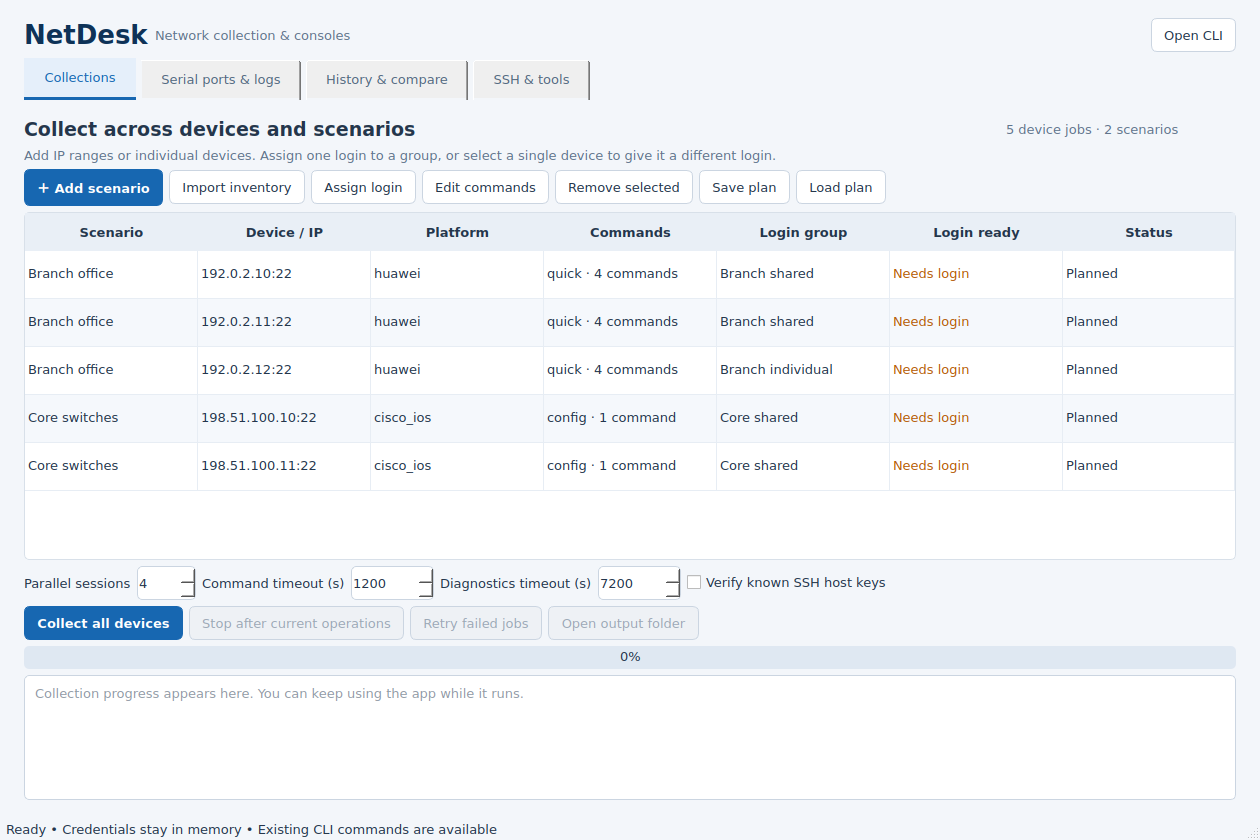
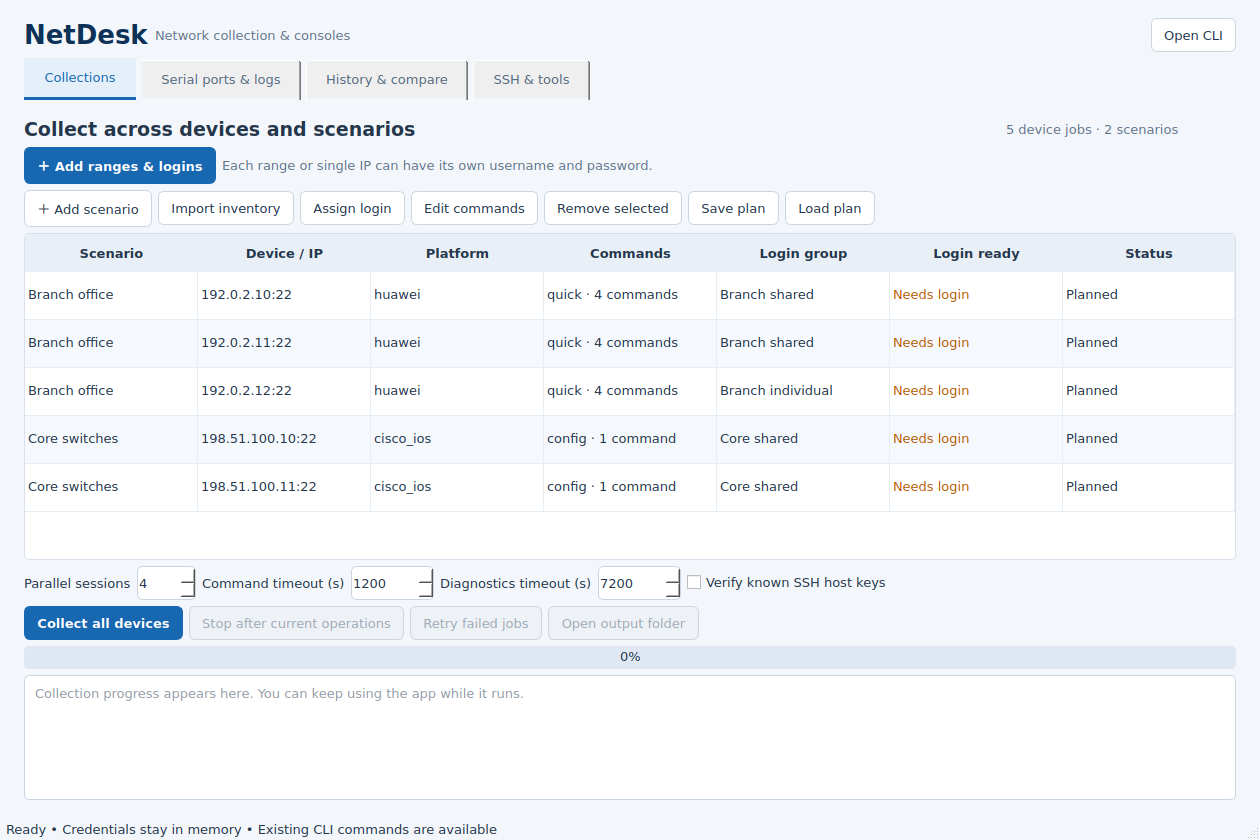
Add direct multi-range collection editor with independent logins

diff --git a/netdesk_gui.py b/netdesk_gui.py
@@ -210,6 +210,130 @@ class ScenarioDialog(QDialog):
             message(self, error)
 
 
+class RangesDialog(QDialog):
+    """One visible row per address set, with independent runtime credentials."""
+    def __init__(self, existing_jobs=(), existing_groups=(), parent=None):
+        super().__init__(parent)
+        self.setWindowTitle('Add IP ranges with separate logins')
+        self.resize(1100, 470)
+        self.existing_jobs = list(existing_jobs)
+        self.existing_groups = set(existing_groups)
+        self.jobs, self.credentials = [], {}
+        layout = QVBoxLayout(self)
+        layout.addWidget(hint('Each row is a separate range or single IP with its own login. Add as many rows as you need, then collect them together.'))
+        self.rows = QTableWidget(0, 6)
+        self.rows.setHorizontalHeaderLabels(['IP / range / subnet', 'Username', 'Password', 'Platform', 'Preset', 'Port'])
+        self.rows.setSelectionBehavior(QAbstractItemView.SelectionBehavior.SelectRows)
+        self.rows.horizontalHeader().setSectionResizeMode(QHeaderView.ResizeMode.Stretch)
+        self.rows.horizontalHeader().setSectionResizeMode(5, QHeaderView.ResizeMode.Fixed)
+        self.rows.setColumnWidth(5, 85)
+        self.rows.verticalHeader().setDefaultSectionSize(44)
+        layout.addWidget(self.rows, 1)
+        controls = QHBoxLayout()
+        controls.addWidget(button('＋ Add another row', self.add_row))
+        controls.addWidget(button('Remove selected rows', self.remove_rows))
+        self.shared = QCheckBox('Use the first row’s username and password for every row')
+        self.shared.toggled.connect(self.update_shared)
+        controls.addWidget(self.shared)
+        controls.addStretch()
+        layout.addLayout(controls)
+        layout.addWidget(hint('Examples: 192.168.1.1-10, 192.168.10.1-15, or one IP such as 10.0.0.5. Passwords are masked and never saved in plans. Use Add scenario for custom command lists.'))
+        self.error = QLabel('')
+        self.error.setWordWrap(True)
+        self.error.setStyleSheet('color: #a12b25;')
+        layout.addWidget(self.error)
+        buttons = QDialogButtonBox(QDialogButtonBox.StandardButton.Ok | QDialogButtonBox.StandardButton.Cancel)
+        buttons.button(QDialogButtonBox.StandardButton.Ok).setText('Add all ranges to collection')
+        buttons.accepted.connect(self.submit)
+        buttons.rejected.connect(self.reject)
+        layout.addWidget(buttons)
+        self.add_row()
+        self.add_row()
+
+    def add_row(self):
+        row = self.rows.rowCount()
+        self.rows.insertRow(row)
+        targets, username, password = QLineEdit(), QLineEdit(), QLineEdit()
+        targets.setPlaceholderText('IP or range, e.g. 192.168.1.1-10')
+        password.setEchoMode(QLineEdit.EchoMode.Password)
+        password.setPlaceholderText('Password for this row')
+        platform = combo(list(n.PRESETS))
+        presets = combo(n.available_presets(['huawei']))
+        def update_presets():
+            previous = presets.currentText()
+            presets.clear()
+            presets.addItems(n.available_presets([platform.currentText()]))
+            presets.setCurrentText(previous if presets.findText(previous) >= 0 else 'quick')
+        def show_commands():
+            if presets.currentText():
+                presets.setToolTip('\n'.join(n.get_commands(platform.currentText(), presets.currentText())))
+        platform.currentTextChanged.connect(update_presets)
+        presets.currentTextChanged.connect(show_commands)
+        for column, widget in enumerate((targets, username, password, platform, presets, spin(1, 65535, 22))):
+            self.rows.setCellWidget(row, column, widget)
+        show_commands()
+        self.update_shared()
+
+    def update_shared(self):
+        for row in range(self.rows.rowCount()):
+            for column in (1, 2):
+                self.rows.cellWidget(row, column).setEnabled(row == 0 or not self.shared.isChecked())
+
+    def remove_rows(self):
+        for row in sorted({index.row() for index in self.rows.selectionModel().selectedRows()}, reverse=True):
+            self.rows.removeRow(row)
+        if not self.rows.rowCount():
+            self.add_row()
+        self.update_shared()
+
+    def build(self):
+        jobs, vault = [], {}
+        used_names = {j['scenario'] for j in self.existing_jobs}
+        used_groups = self.existing_groups | {j['credential_group'] for j in self.existing_jobs}
+        count = 1
+        first_group = None
+        for row in range(self.rows.rowCount()):
+            targets = self.rows.cellWidget(row, 0).text().strip()
+            own_user = self.rows.cellWidget(row, 1).text().strip()
+            own_password = self.rows.cellWidget(row, 2).text()
+            if not targets:
+                if own_user or own_password:
+                    raise ValueError(f'Row {row + 1}: enter the IP or range for this login.')
+                continue
+            credential_row = 0 if self.shared.isChecked() else row
+            username = self.rows.cellWidget(credential_row, 1).text().strip()
+            password = self.rows.cellWidget(credential_row, 2).text()
+            if not username or not password:
+                raise ValueError(f'Row {row + 1}: enter both a username and password' + (' in the first row.' if self.shared.isChecked() else '.'))
+            while f'Range {count}' in used_names or f'Range {count} login' in used_groups:
+                count += 1
+            name = f'Range {count}'
+            group = first_group if self.shared.isChecked() and first_group else name + ' login'
+            try:
+                new_jobs = batch.make_jobs(name, targets, self.rows.cellWidget(row, 3).currentText(),
+                                          self.rows.cellWidget(row, 5).value(), self.rows.cellWidget(row, 4).currentText(),
+                                          credential_group=group)
+            except ValueError as error:
+                raise ValueError(f'Row {row + 1}: {error}') from error
+            jobs.extend(new_jobs)
+            vault[group] = (username, password)
+            first_group = first_group or group
+            used_names.add(name)
+            used_groups.add(group)
+            count += 1
+        if not jobs:
+            raise ValueError('Enter at least one IP or range and its login.')
+        batch.validate_jobs(self.existing_jobs + jobs)
+        return jobs, vault
+
+    def submit(self):
+        try:
+            self.jobs, self.credentials = self.build()
+            self.accept()
+        except (ValueError, KeyError, TypeError) as error:
+            self.error.setText(str(error))
+
+
 class LoginDialog(QDialog):
     def __init__(self, vault, default, parent=None):
         super().__init__(parent)
@@ -291,10 +415,14 @@ class MainWindow(QMainWindow):
         self.count.setMinimumWidth(230)
         row.addWidget(self.count)
         layout.addLayout(row)
-        layout.addWidget(hint('Add IP ranges or individual devices. Assign one login to a group, or select a single device to give it a different login.'))
+        quick = QHBoxLayout()
+        self.ranges_btn = button('＋ Add ranges && logins', self.add_ranges, True)
+        quick.addWidget(self.ranges_btn)
+        quick.addWidget(hint('Each range or single IP can have its own username and password.'), 1)
+        layout.addLayout(quick)
         toolbar = QHBoxLayout()
-        self.edit_buttons = []
-        for text, callback, primary in [('＋ Add scenario', self.add_scenario, True), ('Import inventory', self.import_inventory, False),
+        self.edit_buttons = [self.ranges_btn]
+        for text, callback, primary in [('＋ Add scenario', self.add_scenario, False), ('Import inventory', self.import_inventory, False),
                                         ('Assign login', self.assign_login, False), ('Edit commands', self.edit_commands, False),
                                         ('Remove selected', self.remove_selected, False), ('Save plan', self.save_plan, False), ('Load plan', self.load_plan, False)]:
             control = button(text, callback, primary)
@@ -312,7 +440,7 @@ class MainWindow(QMainWindow):
         self.table.horizontalHeader().setSectionResizeMode(QHeaderView.ResizeMode.Stretch)
         self.table.cellDoubleClicked.connect(lambda _r, _c: self.assign_login() if not self.busy else None)
         layout.addWidget(self.table, 1)
-        self.empty = hint('Start with “Add scenario”. Example: Branch A → 192.168.1.10-20 → one shared login. Add Branch B with another login, then collect both together.')
+        self.empty = hint('Start with “Add ranges & logins”. Enter each IP range and its own username/password, then collect all rows together.')
         layout.addWidget(self.empty)
         settings = QHBoxLayout()
         self.workers = spin(1, 16, 4)
@@ -384,6 +512,15 @@ class MainWindow(QMainWindow):
         self.jobs.extend(dialog.jobs)
         self.dirty = True
         self.refresh_table()
+
+    def add_ranges(self):
+        dialog = RangesDialog(self.jobs, self.vault, self)
+        if dialog.exec():
+            self.jobs.extend(dialog.jobs)
+            self.vault.update(dialog.credentials)
+            self.dirty = True
+            self.refresh_table()
+            self.statusBar().showMessage(f'Added {len(dialog.jobs)} device jobs with {len(dialog.credentials)} login groups. Review and click Collect all devices.')
 
     def add_scenario(self):
         dialog = ScenarioDialog(self.vault, parent=self)

diff --git a/tests/test_gui.py b/tests/test_gui.py
@@ -13,7 +13,7 @@ from PySide6.QtTest import QTest
 
 import netdesk as n
 import netdesk_batch as b
-from netdesk_gui import MainWindow, ScenarioDialog, STYLE
+from netdesk_gui import MainWindow, ScenarioDialog, RangesDialog, STYLE
 
 
 class GuiTests(unittest.TestCase):
@@ -143,6 +143,74 @@ class GuiTests(unittest.TestCase):
         with self.assertRaises(ValueError):
             self.window.accept_scenario(dialog)
         self.assertEqual(self.window.vault['Office'], ('old', 'old-secret'))
+
+    def range_dialog(self):
+        dialog = RangesDialog(parent=self.window)
+        for row, (targets, user, password) in enumerate([
+                ('192.0.2.1-10', 'range-a-user', 'range-a-secret'),
+                ('198.51.100.1-15', 'range-b-user', 'range-b-secret')]):
+            for column, text in enumerate((targets, user, password)):
+                dialog.rows.cellWidget(row, column).setText(text)
+        return dialog
+
+    def test_range_rows_send_correct_login_to_all_25_devices(self):
+        dialog = self.range_dialog()
+        dialog.submit()
+        self.assertEqual(dialog.result(), QDialog.DialogCode.Accepted)
+        self.assertEqual(len(dialog.jobs), 25)
+        calls = {}
+        def connect(**kwargs):
+            calls[kwargs['host']] = (kwargs['username'], kwargs['password'])
+            connection = Mock()
+            connection.find_prompt.return_value = '<switch>'
+            connection.send_command.return_value = 'mock output'
+            return connection
+        with patch.object(n, 'ConnectHandler', side_effect=connect):
+            path, result = b.run_batch(dialog.jobs, dialog.credentials, runs_dir=self.root/'runs')
+        self.assertTrue(all(r['status'] == 'ok' for r in result['results']))
+        for number in range(1, 11):
+            self.assertEqual(calls[f'192.0.2.{number}'], ('range-a-user', 'range-a-secret'))
+        for number in range(1, 16):
+            self.assertEqual(calls[f'198.51.100.{number}'], ('range-b-user', 'range-b-secret'))
+        plan = self.root/'ranges.json'
+        b.save_plan(plan, dialog.jobs)
+        for secret in ('range-a-user', 'range-a-secret', 'range-b-user', 'range-b-secret'):
+            self.assertNotIn(secret, plan.read_text())
+            self.assertNotIn(secret, (path/'summary.json').read_text())
+
+    def test_range_shared_login_and_single_ip(self):
+        dialog = self.range_dialog()
+        dialog.rows.cellWidget(1, 0).setText('198.51.100.5')
+        dialog.shared.setChecked(True)
+        jobs, vault = dialog.build()
+        self.assertEqual(len(jobs), 11)
+        self.assertEqual(len(vault), 1)
+        self.assertEqual(len({j['credential_group'] for j in jobs}), 1)
+        self.assertEqual(next(iter(vault.values())), ('range-a-user', 'range-a-secret'))
+        self.assertFalse(dialog.rows.cellWidget(1, 2).isEnabled())
+        dialog.shared.setChecked(False)
+        self.assertEqual(len(dialog.build()[1]), 2)
+        dialog.reject()
+
+    def test_range_groups_never_overwrite_existing_credentials(self):
+        dialog = self.range_dialog()
+        dialog.existing_jobs = b.make_jobs('Range 1', '203.0.113.1', credential_group='Range 1 login')
+        dialog.existing_groups = {'Range 2 login'}
+        jobs, vault = dialog.build()
+        self.assertNotIn('Range 1 login', vault)
+        self.assertNotIn('Range 2 login', vault)
+        self.assertEqual(jobs[0]['scenario'], 'Range 3')
+        dialog.reject()
+
+    def test_range_invalid_row_keeps_dialog_open_without_partial_result(self):
+        dialog = self.range_dialog()
+        dialog.rows.cellWidget(1, 2).clear()
+        dialog.submit()
+        self.assertEqual(dialog.result(), QDialog.DialogCode.Rejected)
+        self.assertIn('Row 2', dialog.error.text())
+        self.assertEqual(dialog.jobs, [])
+        self.assertEqual(dialog.credentials, {})
+        dialog.reject()
 
     def test_original_serial_wizard_launch_remains_available(self):
         with patch('netdesk_gui.shutil.which', return_value='/usr/bin/gnome-terminal'), patch('netdesk_gui.subprocess.Popen') as launch:

diff --git a/tools/render_screenshots.py b/tools/render_screenshots.py
@@ -10,7 +10,7 @@ sys.path.insert(0, str(Path(__file__).resolve().parents[1]))
 from PySide6.QtWidgets import QApplication
 import netdesk as n
 import netdesk_batch as b
-from netdesk_gui import MainWindow, ScenarioDialog, STYLE
+from netdesk_gui import MainWindow, ScenarioDialog, RangesDialog, STYLE
 
 root = n.ROOT
 output = root / 'docs' / 'screenshots'
@@ -26,6 +26,14 @@ with tempfile.TemporaryDirectory() as temporary, patch.object(n, 'RUNS', Path(te
     window.show()
     app.processEvents()
     window.grab().save(str(output / 'collections.png'))
+    ranges = RangesDialog(parent=window)
+    for row, (targets, user) in enumerate([('192.0.2.1-10', 'branch-a'), ('198.51.100.1-15', 'branch-b')]):
+        ranges.rows.cellWidget(row, 0).setText(targets)
+        ranges.rows.cellWidget(row, 1).setText(user)
+    ranges.show()
+    app.processEvents()
+    ranges.grab().save(str(output / 'ranges.png'))
+    ranges.reject()
     dialog = ScenarioDialog({}, parent=window)
     dialog.name.setText('Core BGP troubleshooting')
     dialog.targets.setPlainText('198.51.100.10-11')

diff --git a/docs/USAGE.md b/docs/USAGE.md
@@ -1,5 +1,13 @@
 # Usage guide
 
+## Quickly add ranges with separate logins
+
+**Collections → Add ranges & logins** opens a table with two initial rows. Enter an IP, inclusive range, subnet or list in each row, then that row's username and password. Every row can choose its own platform, preset and port. Add more rows as needed. Click the row number at the left to select rows for removal.
+
+By default credentials are independent. The optional shared-login checkbox makes all rows use the first row's credentials; turning it off restores the individual fields. Incomplete or invalid rows are reported before anything is added or connected. Entirely blank rows are ignored.
+
+**Add all ranges to collection** expands the addresses and creates distinct groups without overwriting existing credentials. Review the expanded device list and click **Collect all devices** to run. For custom commands, use the existing scenario editor or select added devices and choose **Edit commands**.
+
 ## Plans, credentials and selection
 
 A plan contains one or more scenarios. Each expanded device becomes a job with its own command list and login-group name. Multiple devices may share one group, or each may have its own. Updating a named group changes the login for all devices using it. When selecting only part of a shared group, the GUI suggests a new group to keep the other devices unchanged.

diff --git a/README.md b/README.md
@@ -48,7 +48,23 @@ netdesk --help    # All CLI commands
 
 Existing user-installed serial helpers are preferred. Portable copies are bundled as a fallback, so a fresh installation can use the serial wizard too.
 
-## First collection
+## Ranges with different usernames and passwords
+
+Open **Collections → Add ranges & logins**. Enter one address set per row:
+
+| IP / range | Username | Password |
+| --- | --- | --- |
+| `192.0.2.1-10` | branch-a | Password for the first range |
+| `198.51.100.1-15` | branch-b | Password for the second range |
+| `203.0.113.5` | individual-device | Password for that device |
+
+Each row has its own platform, preset and SSH port. **Add another row** adds more ranges or single IPs. Leave the shared-login checkbox off for different credentials; turn it on to use the first row's username and password for every row.
+
+Click **Add all ranges to collection**, then **Collect all devices**. NetDesk automatically creates independent login groups, keeping existing groups unchanged. Saved plans still omit usernames and passwords.
+
+![Multiple ranges with independent logins](docs/screenshots/ranges.png)
+
+## Advanced scenario setup
 
 1. Open **Collections → Add scenario**.
 2. Name the scenario and enter targets, such as `192.0.2.10-12` or `192.0.2.10,192.0.2.20`.

diff --git a/CHANGELOG.md b/CHANGELOG.md
@@ -1,5 +1,11 @@
 # Changelog
 
+## Unreleased
+
+- Added an **Add ranges & logins** table for multiple IP ranges or single devices, each with its own username/password, platform, preset and port.
+- Added optional shared login across rows, validation before import, and automatic isolated login groups.
+- Verified a 25-device, two-range simulated collection uses the intended credentials for every IP; 39 offline tests pass.
+
 ## 0.1.0 — 2026-11-16
 
 Initial public release.
